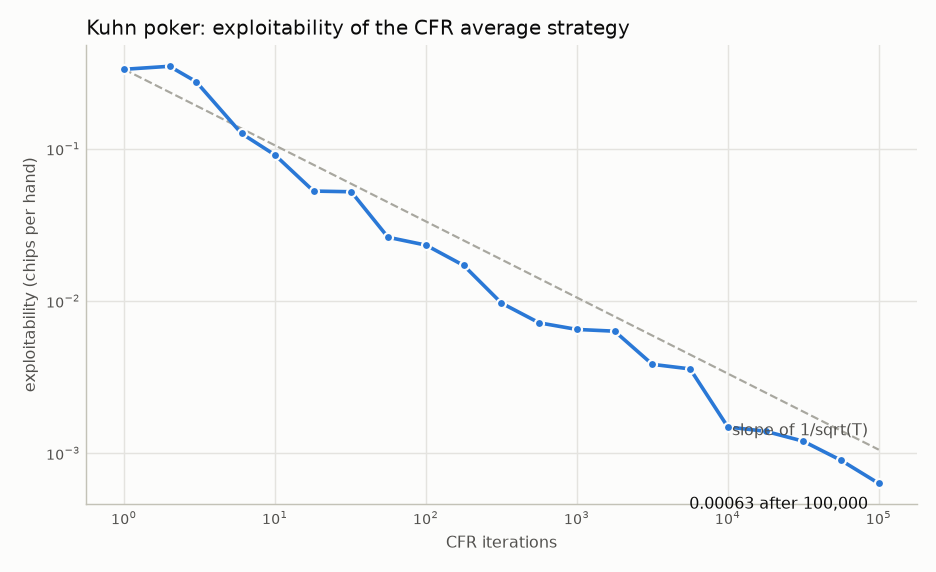
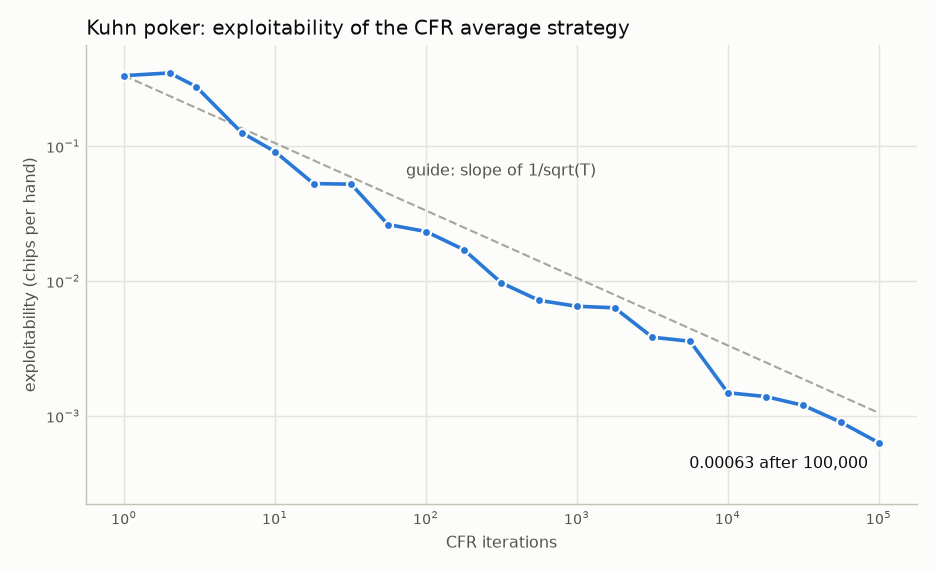
reports: games (LP, regret matching, Kuhn CFR)

diff --git a/reports/games/games.md b/reports/games/games.md
@@ -90,4 +90,4 @@ P(bet or call) at each information set (card + history; p = pass, b = bet).
 | `Kb` | 1.0000 | 1.0000 | -0.0000 |
 
 ---
-_run 20261109T214439Z-2f7787 · commit 5bce8fdb5c0b (dirty) · config 370370b721d7 · seed 20261109_
+_run 20261109T214717Z-5c2020 · commit db6a25ebf676 · config 370370b721d7 · seed 20261109_
